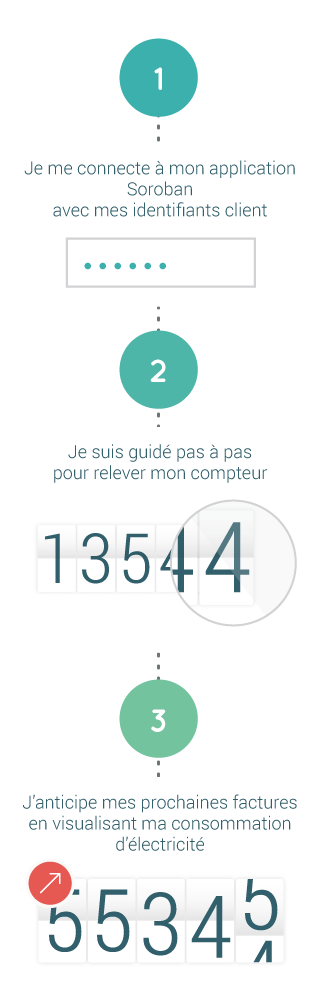
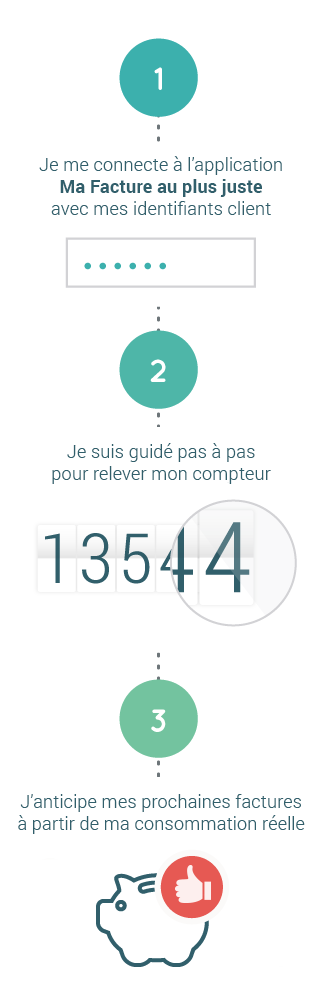
updated schema & credits photos

diff --git a/assets/css/main_2.css b/assets/css/main_2.css
@@ -2228,12 +2228,24 @@ button.alt:hover,
     display: block;
     padding-left: 10px;
     content: "\201C";
-    font-size: 80px;
+    font-size: 50px;
     position: absolute;
-    left: -20px;
-    top: 10px;
+    left: -5px;
+    top: 30px;
     color: #fff;
 }
+
+/*
+#fourth.main .blockquote:after {
+    display: block;
+    content: "\201D";
+    font-size: 80px;
+    position: absolute;
+    right: 40px;
+    bottom: 10px;
+    color: #fff;
+}
+*/
 
 #fourth.main .blockquote cite {
     color: #fff;

diff --git a/index.php b/index.php
@@ -246,7 +246,8 @@ if (!empty($_POST)) {
 					</div>
 					<div class="6u 12u(narrow)">
 						<p class="blockquote">
-							Grâce à la consommation réelle, 96% des clients sont satisfaits de leur facture.
+							Grâce à la consommation réelle, 96% des clients sont satisfaits de leur facture. &rdquo;
+
 						</p>
 					</div>
 				</div>
@@ -316,7 +317,7 @@ if (!empty($_POST)) {
                 <h2>Êtes-vous intéressé ?</h2>
 
                 <p>
-                    Votre avis est important,<br/><span class="highlight">participez</span> à l'élobaration du produit en répondant à quelques questions :
+                    Votre avis est important,<br/><span class="highlight">participez</span> à l'élaboration du produit en répondant à quelques questions :
                 </p>
                 <div class="dark">
                 	<a class="button typeform-share link" href="https://teamwhyers.typeform.com/to/DCmdBe" data-mode="1" target="_blank">Donnez votre avis</a>
@@ -354,8 +355,8 @@ if (!empty($_POST)) {
 	<section id="footer">
 		<div class="container">
 			<div class="row">
-				<div class="6u 12u(narrow) imprint"></div>
-				<div class="6u 12u(narrow) copyright">2015 &copy; EDF - Ma facture au plus juste.</div>
+				<div class="6u 12u(narrow) imprint">Crédits photos: &copy; EDF - SASSO Christel</div>
+				<div class="6u 12u(narrow) copyright">2015 &copy; EDF - Ma facture au plus juste</div>
 			</div>
 		</div>
 	</section>
